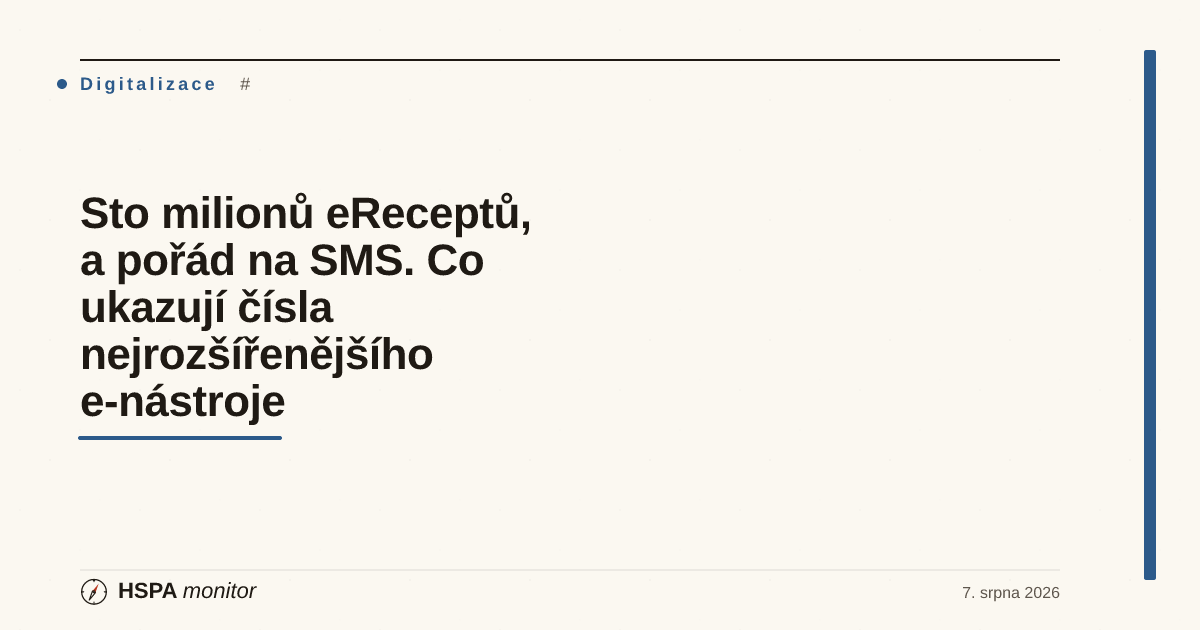
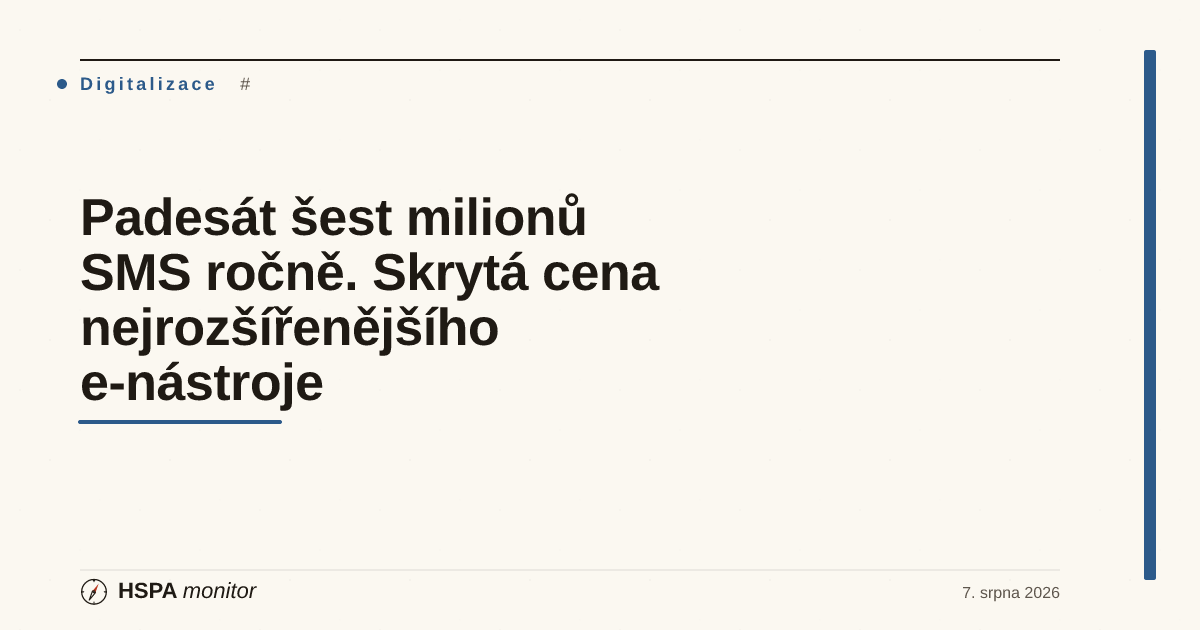
daily(audit): 2026-08-06 — erecept-v-cislech fixed (2 nálezy)
Nezávislý audit: každé číslo ověřeno doslovně proti primárnímu zdroji
(NKÚ KA 24/25, MZ ČR TZ 2019, SÚKL TZ 2021/2022) — všechna souhlasí.
Dvě opravy neověřených tvrzení:
1. Titulek 'Sto milionů eReceptů' → 'Padesát šest milionů SMS ročně' —
   100 mil./rok nebylo doložitelné (300 mil. je kumulativní, ne roční);
   nový titulek kotví na ověřeném čísle NKÚ.
2. Body 'Milion receptů denně' → 'Desítky milionů receptů ročně' —
   milion/den byl nedoložený odhad; desítky milionů/rok jsou kryté 58,5 mil./2018.
Cover přegenerován, articles.json title srovnán. 962 testů zelených.

Changed region(s): [[0.0617, 0.3016, 0.555, 0.7238]]

diff --git a/05_M1_Starter/clanek-erecept-v-cislech.html b/05_M1_Starter/clanek-erecept-v-cislech.html
@@ -14,11 +14,11 @@
 -->
 <meta charset="UTF-8">
 <meta name="viewport" content="width=device-width, initial-scale=1.0">
-<title>Sto milionů eReceptů, a pořád na SMS. Co ukazují čísla nejrozšířenějšího e-nástroje · HSPA Monitor</title>
+<title>Padesát šest milionů SMS ročně. Skrytá cena nejrozšířenějšího e-nástroje · HSPA Monitor</title>
 <meta name="description" content="eRecept je nejrozšířenější nástroj digitálního zdravotnictví v Česku — už v roce 2018 jich lékaři vystavili 58,5 milionu. Přesto systém dodnes stojí na SMS: v roce 2024 jich SÚKL rozeslal téměř 56 milionů za více než 33 milionů korun, tedy skoro pětinu svého provozního rozpočtu (NKÚ). A lékový záznam, největší přidaná hodnota systému, zůstává málo využitý.">
 <meta name="robots" content="noindex, nofollow">
 <meta property="og:type" content="article">
-<meta property="og:title" content="Sto milionů eReceptů, a pořád na SMS. Co ukazují čísla nejrozšířenějšího e-nástroje">
+<meta property="og:title" content="Padesát šest milionů SMS ročně. Skrytá cena nejrozšířenějšího e-nástroje">
 <meta property="og:description" content="eRecept máme od 2018 a používá ho 80 % lékařů. Přesto systém stojí na 56 milionech SMS ročně za 33 milionů korun (NKÚ). A lékový záznam zůstává málo využitý.">
 <meta property="og:locale" content="cs_CZ">
 <meta property="article:published_time" content="2026-08-07">
@@ -55,7 +55,7 @@
         <span class="article-tag">Digitalizace</span>
         <span class="article-tag article-tag-muted">eRecept · e-preskripce · lékový záznam</span>
       </div>
-      <h1 class="article-title">Sto milionů eReceptů, a pořád na SMS. Co ukazují čísla nejrozšířenějšího e-nástroje</h1>
+      <h1 class="article-title">Padesát šest milionů SMS ročně. Skrytá cena nejrozšířenějšího e-nástroje</h1>
       <p class="article-deck">
         Elektronický recept je zdaleka nejrozšířenější prvek digitalizace českého zdravotnictví — už v prvním roce povinné e-preskripce, tedy v roce 2018, jich lékaři vystavili 58,5 milionu a přes 300 milionů dohromady jich systém překročil na začátku roku 2022. Přesto dvě čísla ukazují, že samotná masovost není totéž co vyspělost: v roce 2024 SÚKL rozeslal téměř 56 milionů notifikačních SMS za více než 33 milionů korun (téměř pětinu svého provozního rozpočtu, jak spočítal NKÚ), zatímco lékový záznam — funkce, kvůli které má smysl mít recepty na jednom místě — zůstává málo využitý.
       </p>
@@ -164,7 +164,7 @@
       </p>
 
       <p>
-        Druhá lekce se týká bezpečnosti. Čím víc předpisů, dat a notifikačních kanálů systém spravuje, tím větší je jeho zranitelnost. Zdravotnictví je v Česku kritickou infrastrukturou a počet evidovaných kybernetických incidentů v sektoru dashboard sleduje samostatně; s nástupem povinností podle evropské směrnice NIS2 poroste tlak na to, aby centrální systémy typu eRecept měly bezpečnost a kontinuitu provozu ošetřenou stejně pečlivě jako dostupnost. Milion receptů denně je obrovská hodnota — a stejně velká odpovědnost.
+        Druhá lekce se týká bezpečnosti. Čím víc předpisů, dat a notifikačních kanálů systém spravuje, tím větší je jeho zranitelnost. Zdravotnictví je v Česku kritickou infrastrukturou a počet evidovaných kybernetických incidentů v sektoru dashboard sleduje samostatně; s nástupem povinností podle evropské směrnice NIS2 poroste tlak na to, aby centrální systémy typu eRecept měly bezpečnost a kontinuitu provozu ošetřenou stejně pečlivě jako dostupnost. Desítky milionů receptů ročně jsou obrovská hodnota — a stejně velká odpovědnost.
       </p>
 
       <h3>Co s tím</h3>
